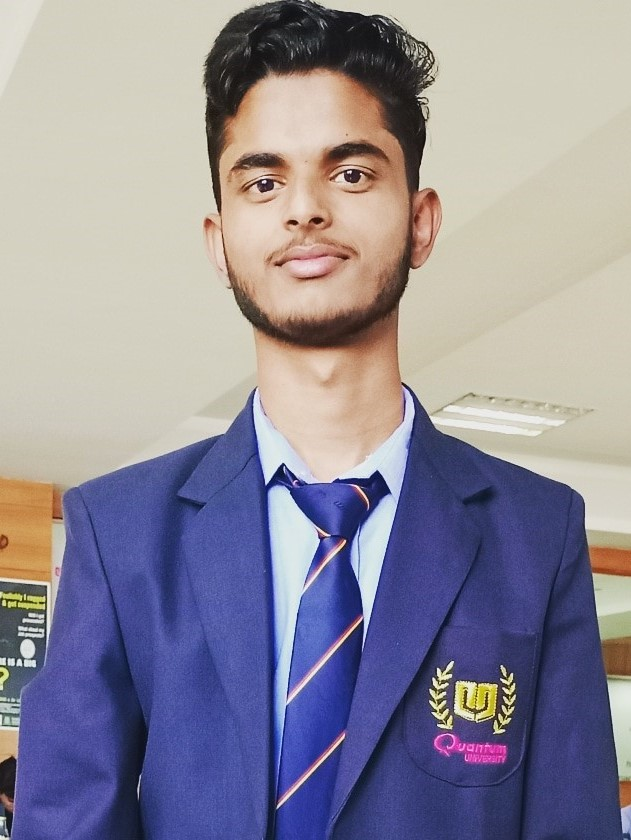
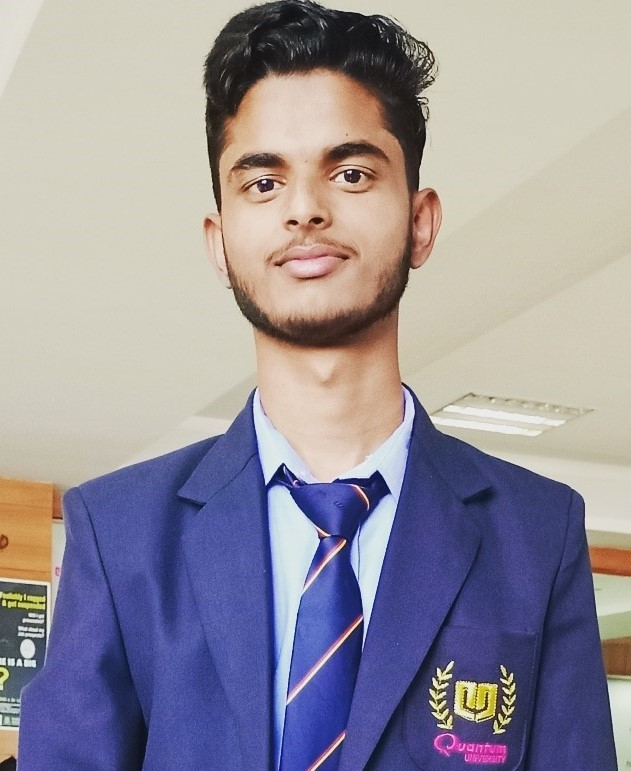
initial commit

diff --git a/src/components/About/AboutStyled.js b/src/components/About/AboutStyled.js
@@ -89,10 +89,10 @@ export const AboutRightContainer = styled.div`
 export const Img = styled.img`
   position: relative;
   width: 900px;
-  height: 400px;
+  height: 300px;
   max-width: 900px;
-  max-height: 400px;
-  border-radius: 50%;
+  max-height: 300px;
+  // border-radius: 50%;
   border: 2px solid #64FFDA;
   filter: saturate(80%);
   &:hover {
@@ -112,7 +112,7 @@ export const Img = styled.img`
   }
 
   @media (max-width: 760px) {
-    max-width: 350px;
+    max-width: 300px;
     max-height: 450px;
     margin-right: 520px;
     margin-top: 40px;
@@ -141,7 +141,7 @@ export const Title = styled.div`
   font-weight: 700;
   font-size: 42px;
   color: #CCD6F6;
-  padding-bottom: 70px;
+  padding-bottom : 70px;
   text-align: center;
   @media (max-width: 960px) {
     text-align: center;

diff --git a/src/components/HeroSection/HeroStyled.js b/src/components/HeroSection/HeroStyled.js
@@ -99,7 +99,7 @@ export const SubTitle = styled.div`
   width: 500px;
   font-family: Calibre, "San Francisco", "SF Pro Text", -apple-system, system-ui, BlinkMacSystemFont, Roboto, "Helvetica Neue", "Segoe UI", Arial, sans-serif;
   font-size: 18px;
-  line-height: 32px;
+  // line-height: 32px;
   margin: 50px 80px 70px 0px;
   color: #8892B0;
 
@@ -119,7 +119,7 @@ export const SubTitle = styled.div`
   @media (max-width: 450px) {
     width: 350px;
     font-size: 14px;
-    margin-left: 90px;
+    margin-left: 60px;
   }
 `;
 

diff --git a/src/components/HeroSection/Hero.css b/src/components/HeroSection/Hero.css
@@ -22,6 +22,7 @@
 }
 @media (max-width: 450px) {
     .name {
-        font-size: 25px !important;
+        margin-right: 50px !important;
+        font-size: 2.2rem !important;
     }
 }
